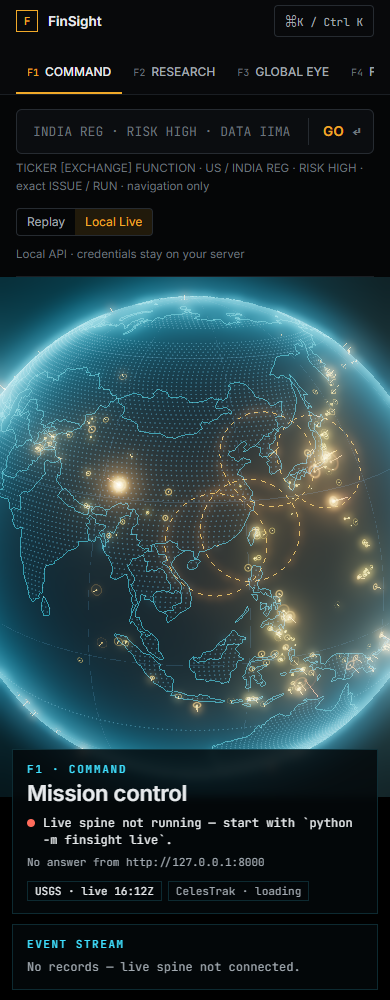
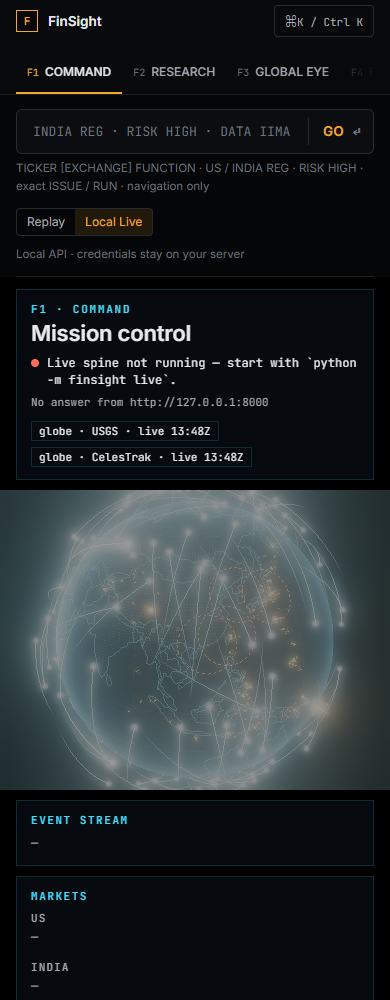
fix(command): dim the globe behind opaque panels, status first at 390, colour only for health
- The globe backdrop is held at a constant 60% brightness; panels are 93% opaque.
- Event-type labels and ticker chips are neutral; green/amber/red mean feed health, red also a failed check.
- With the spine absent only the status panel explains why; other panels show a dash.
- Globe feed chips say 'globe' so they are not read as the live spine.
- At <=820 px the status panel comes first, the globe is capped at 38svh, panels keep a 16 px gutter.
- Mobile nav fades at the right edge and snaps.

diff --git a/frontend-v2/src/command/command.css b/frontend-v2/src/command/command.css
@@ -7,7 +7,7 @@
   --cmd-amber: #f0a929;
   --cmd-green: #39e6b5;
   --cmd-red: #ff6b5b;
-  --cmd-panel: rgba(4, 8, 11, 0.84);
+  --cmd-panel: rgba(6, 10, 14, 0.93);
   --cmd-mono: "JetBrains Mono", ui-monospace, "SF Mono", Menlo, Consolas, monospace;
   position: absolute;
   inset: 0;
@@ -24,6 +24,8 @@
 .cmd-stage {
   position: absolute;
   inset: 0;
+  /* A constant dimming: the globe is context; the panels carry the state. */
+  filter: brightness(0.6) saturate(0.85);
 }
 .cmd-hud {
   position: absolute;
@@ -55,7 +57,7 @@
   padding: 12px 14px;
   border: 1px solid var(--cmd-line);
   background: var(--cmd-panel);
-  backdrop-filter: blur(4px);
+  backdrop-filter: blur(6px);
 }
 .cmd-left .cmd-panel:last-child {
   flex: 1;
@@ -136,6 +138,12 @@
 .cmd-chip.replay {
   color: var(--cmd-fg);
 }
+.cmd-chip code,
+.cmd-spine code {
+  padding: 0 4px;
+  background: rgba(255, 255, 255, 0.08);
+  font: inherit;
+}
 .cmd-list {
   margin: 0;
   padding: 0;
@@ -183,19 +191,11 @@
 .cmd-type {
   flex: none;
   font: 500 11px var(--cmd-mono);
-  color: var(--cmd-cyan);
+  color: var(--cmd-muted);
 }
-.cmd-type-geo {
-  color: #ffd166;
-}
+/* Colour is reserved: green / amber / red for feed health, red also for a failed risk check. */
 .cmd-type-risk {
   color: var(--cmd-red);
-}
-.cmd-type-research {
-  color: var(--cmd-green);
-}
-.cmd-type-market {
-  color: var(--cmd-amber);
 }
 .cmd-tickers {
   display: flex;
@@ -205,8 +205,8 @@
 }
 .cmd-tickers i {
   padding: 0 5px;
-  border: 1px solid rgba(57, 230, 181, 0.4);
-  color: var(--cmd-green);
+  border: 1px solid rgba(255, 255, 255, 0.18);
+  color: var(--cmd-fg);
   font: normal 11px var(--cmd-mono);
 }
 .cmd-empty {
@@ -317,29 +317,29 @@
     grid-template-columns: minmax(280px, 340px) minmax(0, 1fr) minmax(280px, 340px);
   }
 }
-/* Phones: the globe on top, the HUD as stacked panels below it (a bottom sheet). */
+/* Phones: status first, then a short globe, then the panels stacked with a 16 px gutter. */
 @media (max-width: 820px) {
   .cmd {
     position: relative;
     inset: auto;
     overflow: visible;
-  }
-  .cmd-stage {
-    position: relative;
-    height: 52vh;
-    min-height: 280px;
-  }
-  .cmd-hud {
-    position: relative;
-    inset: auto;
     display: flex;
     flex-direction: column;
     gap: 10px;
-    margin-top: -48px;
-    padding: 0 12px 24px;
+    padding: 12px 0 24px;
   }
+  .cmd-stage {
+    position: relative;
+    order: -1;
+    height: min(38svh, 300px);
+    min-height: 220px;
+  }
+  .cmd-hud,
   .cmd-col {
     display: contents;
+  }
+  .cmd-panel {
+    margin: 0 16px;
   }
   .cmd-title {
     order: -2;

diff --git a/frontend-v2/src/command/CommandCenter.tsx b/frontend-v2/src/command/CommandCenter.tsx
@@ -173,11 +173,12 @@ export function CommandCenter() {
   const stream = events.slice(0, 40);
   const live = mode === "live" && allowed;
   const connected = spine.state.kind === "streaming" || spine.state.kind === "polling";
-  const absent = connected ? null : "No records — live spine not connected.";
+  // The status panel names why there are no records; the other panels say it in one word.
+  const absent = connected ? null : "—";
 
   const feedChip = (f: Feed<unknown>, label: string) => (
     <span className={`cmd-chip ${f.status}`} title={f.note ?? undefined}>
-      {label} ·{" "}
+      globe · {label} ·{" "}
       {f.status === "live" && f.at
         ? `live ${new Date(f.at).toISOString().slice(11, 16)}Z`
         : f.status}

diff --git a/frontend-v2/src/app/shell/shell.css b/frontend-v2/src/app/shell/shell.css
@@ -288,6 +288,12 @@
   .shell-nav {
     order: 3;
     flex-basis: 100%;
+    /* More workspaces sit off the right edge: fade it so the row reads as scrollable. */
+    mask-image: linear-gradient(90deg, #000 85%, transparent);
+    scroll-snap-type: x proximity;
+  }
+  .shell-nav .shell-link {
+    scroll-snap-align: start;
   }
   .shell-link {
     min-height: 42px;
